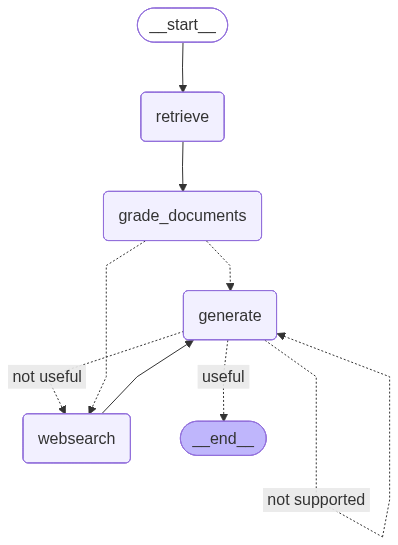
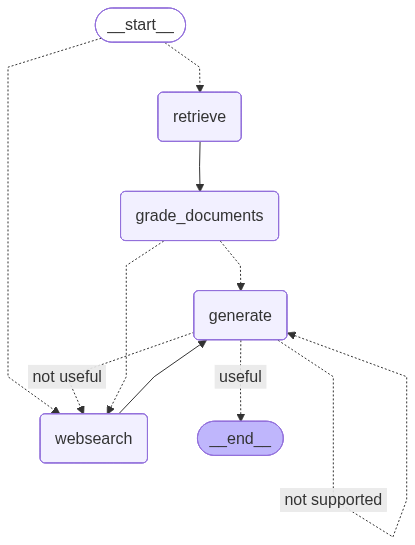
feat: 질문 라우팅 시스템 구현 및 웹 검색 안정성 개선
- 질문 라우팅 시스템 구현:
  * router.py: 질문을 vectorstore 또는 websearch로 자동 라우팅하는 체인 추가
  * RouteQuery 스키마: 라우팅 결과를 구조화된 형태로 반환
  * vectorstore: agents, prompt engineering, adversarial attacks 관련 질문
  * websearch: 그 외 모든 질문 (예: 피자 만들기 등)

- 웹 검색 안정성 개선:
  * web_search.py: state.get('documents') 사용으로 KeyError 방지
  * Router에서 직접 WEBSEARCH로 라우팅 시 documents 키가 없어도 정상 작동

- 그래프 플로우 개선:
  * graph.py: 조건부 진입점으로 질문 라우팅 시스템 통합
  * RETRIEVE → GRADE_DOCUMENTS → GENERATE 플로우에서
  * ROUTE_QUESTION → (RETRIEVE/WEBSEARCH) → GRADE_DOCUMENTS → GENERATE로 변경

- 테스트 케이스 업데이트:
  * main.py: 피자 만들기 질문으로 websearch 라우팅 테스트
  * 플로우 주석 업데이트 및 테스트 목적 명시

diff --git a/graph/chains/router.py b/graph/chains/router.py
@@ -1,0 +1,49 @@
+# 환경 변수(.env 파일) 로드를 위한 모듈 임포트
+from dotenv import load_dotenv
+# .env 파일의 환경 변수를 로드 (OpenAI API 키가 필요하므로 최상단에서 로드)
+load_dotenv()
+
+# Literal 타입 힌팅 임포트 (제한된 값만 허용)
+from typing import Literal
+
+# 프롬프트 템플릿을 생성하기 위한 클래스 임포트
+from langchain_core.prompts import ChatPromptTemplate
+# Pydantic 모델과 필드 정의를 위한 클래스 임포트 (데이터 검증 및 스키마 정의)
+from pydantic import BaseModel, Field
+# OpenAI의 ChatGPT 모델을 사용하기 위한 클래스 임포트
+from langchain_openai import ChatOpenAI
+
+
+# 라우팅 결과를 담는 스키마: 질문을 vectorstore 또는 websearch로 라우팅
+class RouteQuery(BaseModel):
+    """Route a user query to the most relevant datasource."""
+
+    # datasource 필드: "vectorstore" 또는 "websearch" 중 하나만 가능
+    datasource: Literal["vectorstore", "websearch"] = Field(
+        ...,
+        description="Given a user question choose to route it to web search or a vectorstore.",
+    )
+
+
+# ChatGPT 4o-mini 모델 인스턴스 생성 (temperature=0으로 일관된 라우팅 결정 보장)
+# Structured Output API 지원 모델 사용
+llm = ChatOpenAI(model="gpt-4o-mini", temperature=0)
+# LLM이 RouteQuery 스키마 형식으로만 출력하도록 구조화
+structured_llm_router = llm.with_structured_output(RouteQuery)
+
+# 시스템 프롬프트: Router의 역할과 라우팅 기준을 정의
+# - vectorstore: agents, prompt engineering, adversarial attacks 관련 질문
+# - websearch: 그 외 모든 질문
+system = """You are an expert at routing a user question to a vectorstore or web search.
+The vectorstore contains documents related to agents, prompt engineering, and adversarial attacks.
+Use the vectorstore for questions on these topics. For all else, use web-search."""
+# Router 프롬프트 템플릿 생성: 시스템 메시지 + 사용자 질문
+route_prompt = ChatPromptTemplate.from_messages(
+    [
+        ("system", system),  # 시스템 역할 정의
+        ("human", "{question}"),  # 라우팅할 질문
+    ]
+)
+
+# 최종 Question Router 체인: 프롬프트 → 구조화된 LLM → vectorstore/websearch 결정
+question_router = route_prompt | structured_llm_router

diff --git a/graph/graph.py b/graph/graph.py
@@ -15,6 +15,9 @@ from graph.state import GraphState
 from graph.chains.hallucination_grader import hallucination_grader
 # answer_grader 체인 임포트
 from graph.chains.answer_grader import answer_grader
+# router 체인 임포트
+from graph.chains.router import question_router, RouteQuery
+
 
 # 조건부 엣지 함수: 문서 평가 결과에 따라 웹 검색 또는 답변 생성으로 분기
 def decide_to_generate(state):
@@ -74,6 +77,18 @@ def grade_generation_grounded_in_documents_and_question(state: GraphState) -> st
         print(f"---DECISION: GENERATION IS NOT GROUNDED IN DOCUMENTS, RE-TRY ({retry_count + 1}/{MAX_RETRIES})---")
         return "not supported"
 
+# 질문을 vectorstore 또는 websearch로 라우팅
+def route_question(state: GraphState) -> str:
+    print("---ROUTE QUESTION---")
+    question = state["question"]
+    source: RouteQuery = question_router.invoke({"question": question})
+    if source.datasource == WEBSEARCH:
+        print("---ROUTE QUESTION TO WEB SEARCH---")
+        return WEBSEARCH
+    elif source.datasource == "vectorstore":
+        print("---ROUTE QUESTION TO RAG---")
+        return RETRIEVE
+
 # StateGraph 인스턴스 생성 (GraphState 스키마 사용)
 workflow = StateGraph(GraphState)
 
@@ -84,7 +99,16 @@ workflow.add_node(GENERATE, generate)  # 답변 생성 노드
 workflow.add_node(WEBSEARCH, web_search)  # 웹 검색 노드
 
 # 시작점 설정: RETRIEVE 노드부터 시작
-workflow.set_entry_point(RETRIEVE)
+# workflow.set_entry_point(RETRIEVE)
+
+# 질문을 vectorstore 또는 websearch로 라우팅
+workflow.set_conditional_entry_point(
+    route_question,
+    {
+        WEBSEARCH: WEBSEARCH,
+        RETRIEVE: RETRIEVE,
+    },
+)
 
 # 엣지 추가: 노드 간 연결
 workflow.add_edge(RETRIEVE, GRADE_DOCUMENTS)  # 검색 후 문서 평가

diff --git a/graph/chains/tests/test_chains.py b/graph/chains/tests/test_chains.py
@@ -1,5 +1,7 @@
 # 환경 변수(.env 파일) 로드를 위한 모듈 임포트
 from dotenv import load_dotenv
+
+from graph.chains.router import RouteQuery, question_router
 # .env 파일의 환경 변수를 로드 (예: API 키 등)
 load_dotenv()
 
@@ -79,3 +81,16 @@ def test_hallucination_grader_answer_no() -> None:
         }
     )
     assert not res.binary_score
+
+def test_router_to_vectorstore() -> None:
+    question = "agent memory"
+
+    res: RouteQuery = question_router.invoke({"question": question})
+    assert res.datasource == "vectorstore"
+
+
+def test_router_to_websearch() -> None:
+    question = "how to make pizza"
+
+    res: RouteQuery = question_router.invoke({"question": question})
+    assert res.datasource == "websearch"

diff --git a/main.py b/main.py
@@ -10,8 +10,10 @@ from graph.graph import app
 def main():
     print("main함수 실행")
     # 그래프에 질문을 입력하여 실행
-    # 플로우: RETRIEVE → GRADE_DOCUMENTS → (WEBSEARCH?) → GENERATE
-    print(app.invoke({"question": "what is agent memory? answer in korean."}))
+    # 플로우: ROUTE_QUESTION → (RETRIEVE/WEBSEARCH) → GRADE_DOCUMENTS → GENERATE
+    # 테스트용 질문 변경: agent memory → pizza making (websearch 라우팅 테스트)
+    # print(app.invoke({"question": "what is agent memory? answer in korean."}))
+    print(app.invoke({"question": "how to make pizza? answer in korean."}))
 
 # 직접 실행 시 메인 함수 호출
 if __name__ == "__main__":

diff --git a/graph/nodes/web_search.py b/graph/nodes/web_search.py
@@ -21,8 +21,8 @@ def web_search(state: GraphState) -> Dict[str, Any]:
     print("---WEB SEARCH---")
     # State에서 사용자 질문 추출
     question = state["question"]
-    # State에서 기존 문서 목록 추출 (없을 수도 있음)
-    documents = state["documents"]
+    # State에서 기존 문서 목록 추출 (Router에서 바로 온 경우 없을 수 있음)
+    documents = state.get("documents")
 
     # Tavily API를 사용하여 질문에 대한 웹 검색 수행
     tavily_results = web_search_tool.invoke({"query": question})
